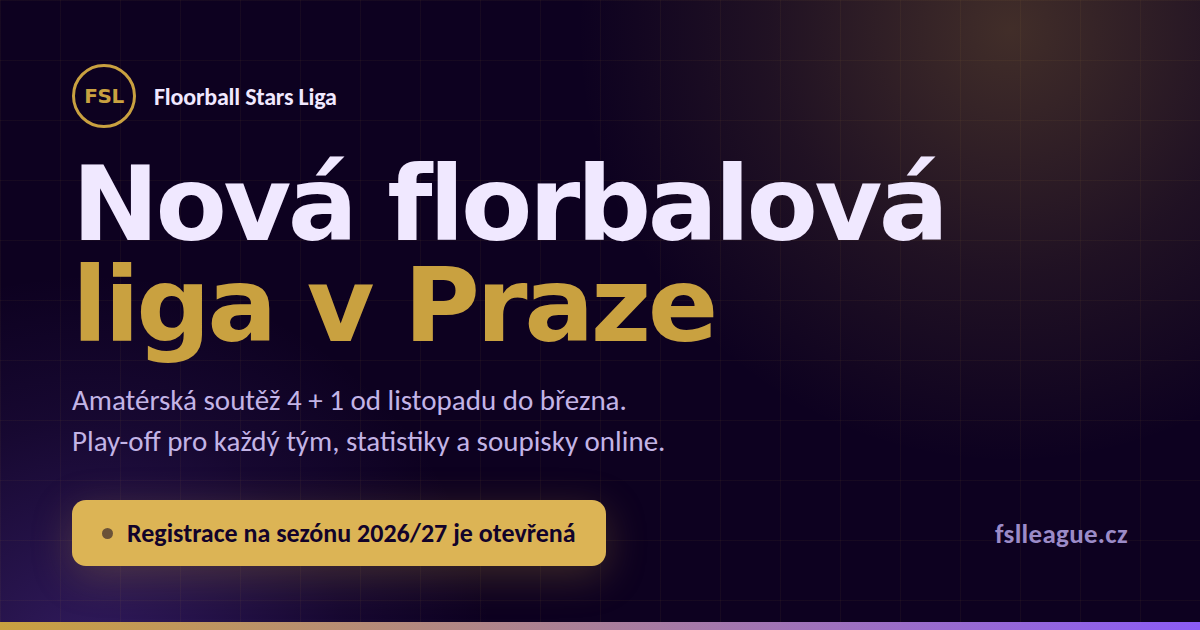
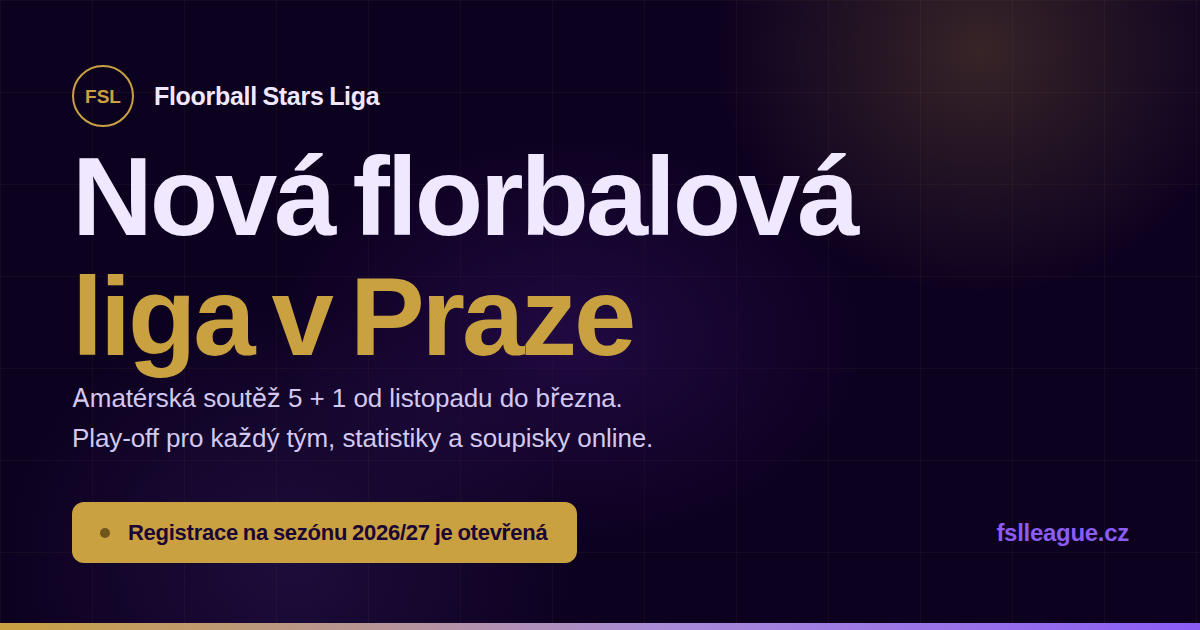
Sdílecí karta: formát 5 + 1 místo 4 + 1
Formát hry se 15. 9. změnil ze 4 + 1 na 5 + 1. Texty na webu se přepsaly,
ale og.png byl hotový PNG bez zdroje, takže v náhledu sdíleného odkazu
zůstalo staré 4 + 1 — a přesně ten odkaz teď vede z reklamy na Facebooku.

Karta se nově generuje z předlohy ve scripts/og, aby příští změna textu
byla úprava jednoho řádku, ne překreslování obrázku.

Claude-Session: https://claude.ai/code/session_015F1wsrSHj7VpRo6WxWEU58

diff --git a/scripts/og/og.html b/scripts/og/og.html
@@ -1,0 +1,127 @@
+<!doctype html>
+<!--
+  Předloha sdílecí karty (`public/og.png`, 1200 × 630).
+
+  Karta byla do 15. 9. 2026 jen hotový PNG bez zdroje — a když se formát hry
+  změnil ze 4 + 1 na 5 + 1, text v obrázku zůstal starý, protože nebylo co
+  přepsat. Od té doby se generuje odsud.
+
+  Vykreslení:
+      cd scripts/og
+      npm i                 # @fontsource/inter + playwright
+      node render.mjs       # zapíše ../../public/og.png
+
+  Inter musí být lokálně (fontsource), ne ze systému: web má v `globals.css`
+  stack "Inter", -apple-system, … a na Macu bez nainstalovaného Interu by se
+  karta vykreslila jiným písmem než na CI.
+-->
+<html lang="cs">
+<head>
+<meta charset="utf-8">
+<style>
+  @font-face { font-family: Inter; font-weight: 400; src: url("node_modules/@fontsource/inter/files/inter-latin-ext-400-normal.woff2") format("woff2"); }
+  @font-face { font-family: Inter; font-weight: 700; src: url("node_modules/@fontsource/inter/files/inter-latin-ext-700-normal.woff2") format("woff2"); }
+  @font-face { font-family: Inter; font-weight: 900; src: url("node_modules/@fontsource/inter/files/inter-latin-ext-900-normal.woff2") format("woff2"); }
+
+  * { margin: 0; padding: 0; box-sizing: border-box; }
+  html, body { width: 1200px; height: 630px; }
+  body {
+    font-family: Inter, sans-serif;
+    background: #0d0120;
+    -webkit-font-smoothing: antialiased;
+    text-rendering: optimizeLegibility;
+    overflow: hidden;
+  }
+  .card { position: relative; width: 1200px; height: 630px; overflow: hidden; background: #0d0120; }
+
+  /* Barvy jsou tokeny z `src/app/globals.css` — bg, go, pu, wh. */
+  .grid {
+    position: absolute; inset: 0;
+    background-image:
+      linear-gradient(to right, rgba(201,161,64,0.05) 1px, transparent 1px),
+      linear-gradient(to bottom, rgba(201,161,64,0.05) 1px, transparent 1px);
+    background-size: 92px 92px;
+  }
+  .glow-gold {
+    position: absolute; top: -300px; right: -160px; width: 760px; height: 700px;
+    background: radial-gradient(closest-side, rgba(201,161,64,0.22), rgba(201,161,64,0) 70%);
+  }
+  .glow-purple {
+    position: absolute; bottom: -300px; left: -120px; width: 820px; height: 740px;
+    background: radial-gradient(closest-side, rgba(139,92,246,0.13), rgba(139,92,246,0) 70%);
+  }
+  .glow-mid {
+    position: absolute; top: 60px; left: 160px; width: 820px; height: 560px;
+    background: radial-gradient(closest-side, rgba(46,15,88,0.6), rgba(46,15,88,0) 72%);
+  }
+
+  /* Prvky jsou umístěné absolutně na pevné souřadnice — karta má jediný
+     rozměr 1200 × 630 a nikde se neresponzivně nezalamuje. */
+  .brand { position: absolute; top: 65px; left: 72px; display: flex; align-items: center; gap: 20px; }
+  .badge {
+    width: 62px; height: 62px; border-radius: 50%; border: 2px solid #c9a140;
+    display: flex; align-items: center; justify-content: center;
+    color: #c9a140; font-weight: 700; font-size: 19px;
+  }
+  .brand-name { color: #f0e8ff; font-weight: 700; font-size: 25px; letter-spacing: -0.012em; }
+
+  h1 {
+    position: absolute; top: 134px; left: 72px;
+    font-size: 112px; font-weight: 900; line-height: 120px; letter-spacing: -0.028em;
+  }
+  h1 .l1 { color: #f0e8ff; display: block; }
+  h1 .l2 { color: #c9a140; display: block; }
+
+  .sub {
+    position: absolute; top: 378px; left: 72px;
+    color: #d3c8ef; font-size: 26px; font-weight: 400; line-height: 40px; letter-spacing: -0.004em;
+  }
+
+  .pill {
+    position: absolute; top: 502px; left: 72px; height: 61px;
+    display: flex; align-items: center; gap: 18px;
+    background: #c9a140; color: #1a0535;
+    font-weight: 700; font-size: 22px; letter-spacing: -0.012em;
+    padding: 0 30px 0 28px; border-radius: 12px;
+  }
+  .dot { width: 10px; height: 10px; border-radius: 50%; background: #6e5719; }
+
+  .site {
+    position: absolute; top: 518px; right: 71px;
+    color: #8b5cf6; font-weight: 700; font-size: 24px; letter-spacing: -0.012em;
+  }
+
+  .bar { position: absolute; left: 0; right: 0; bottom: 0; height: 7px;
+    background: linear-gradient(to right, #c9a140 0%, #a98bd8 55%, #8b5cf6 100%); }
+</style>
+</head>
+<body>
+  <div class="card">
+    <div class="grid"></div>
+    <div class="glow-mid"></div>
+    <div class="glow-gold"></div>
+    <div class="glow-purple"></div>
+
+    <div class="brand">
+      <div class="badge">FSL</div>
+      <div class="brand-name">Floorball Stars Liga</div>
+    </div>
+
+    <h1>
+      <span class="l1">Nová florbalová</span>
+      <span class="l2">liga v Praze</span>
+    </h1>
+
+    <!-- Formát hry musí souhlasit s `fsl-pravidla-souteze.md`, oddíl 1. -->
+    <div class="sub">
+      Amatérská soutěž 5 + 1 od listopadu do března.<br>
+      Play-off pro každý tým, statistiky a soupisky online.
+    </div>
+
+    <div class="pill"><span class="dot"></span>Registrace na sezónu 2026/27 je otevřená</div>
+    <div class="site">fslleague.cz</div>
+
+    <div class="bar"></div>
+  </div>
+</body>
+</html>
